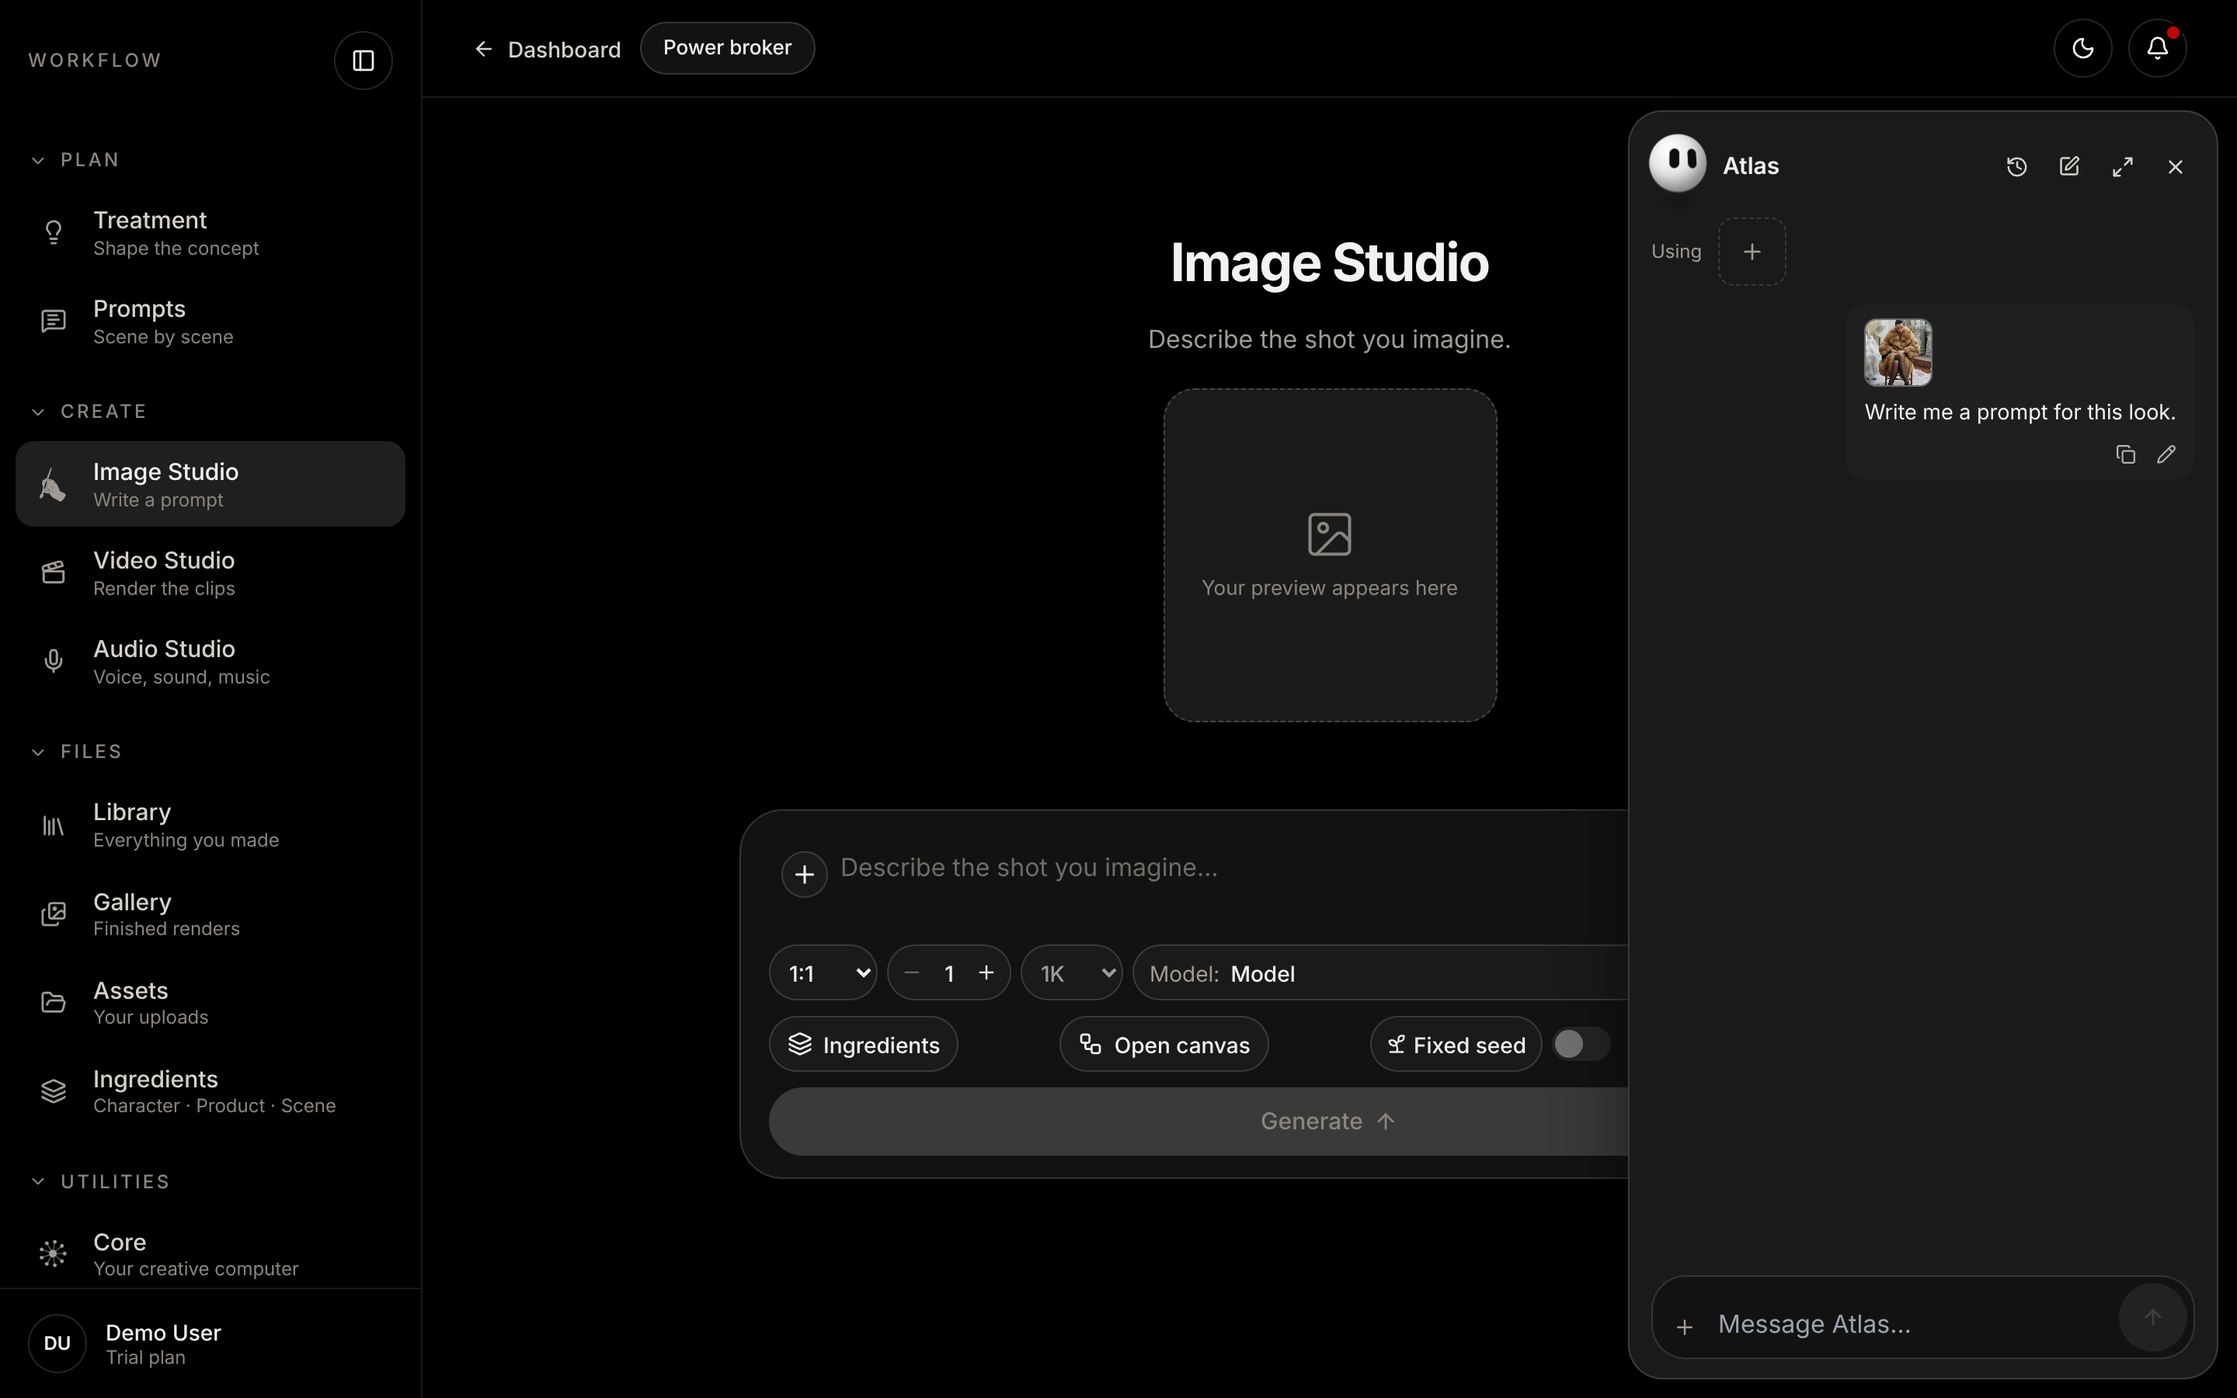
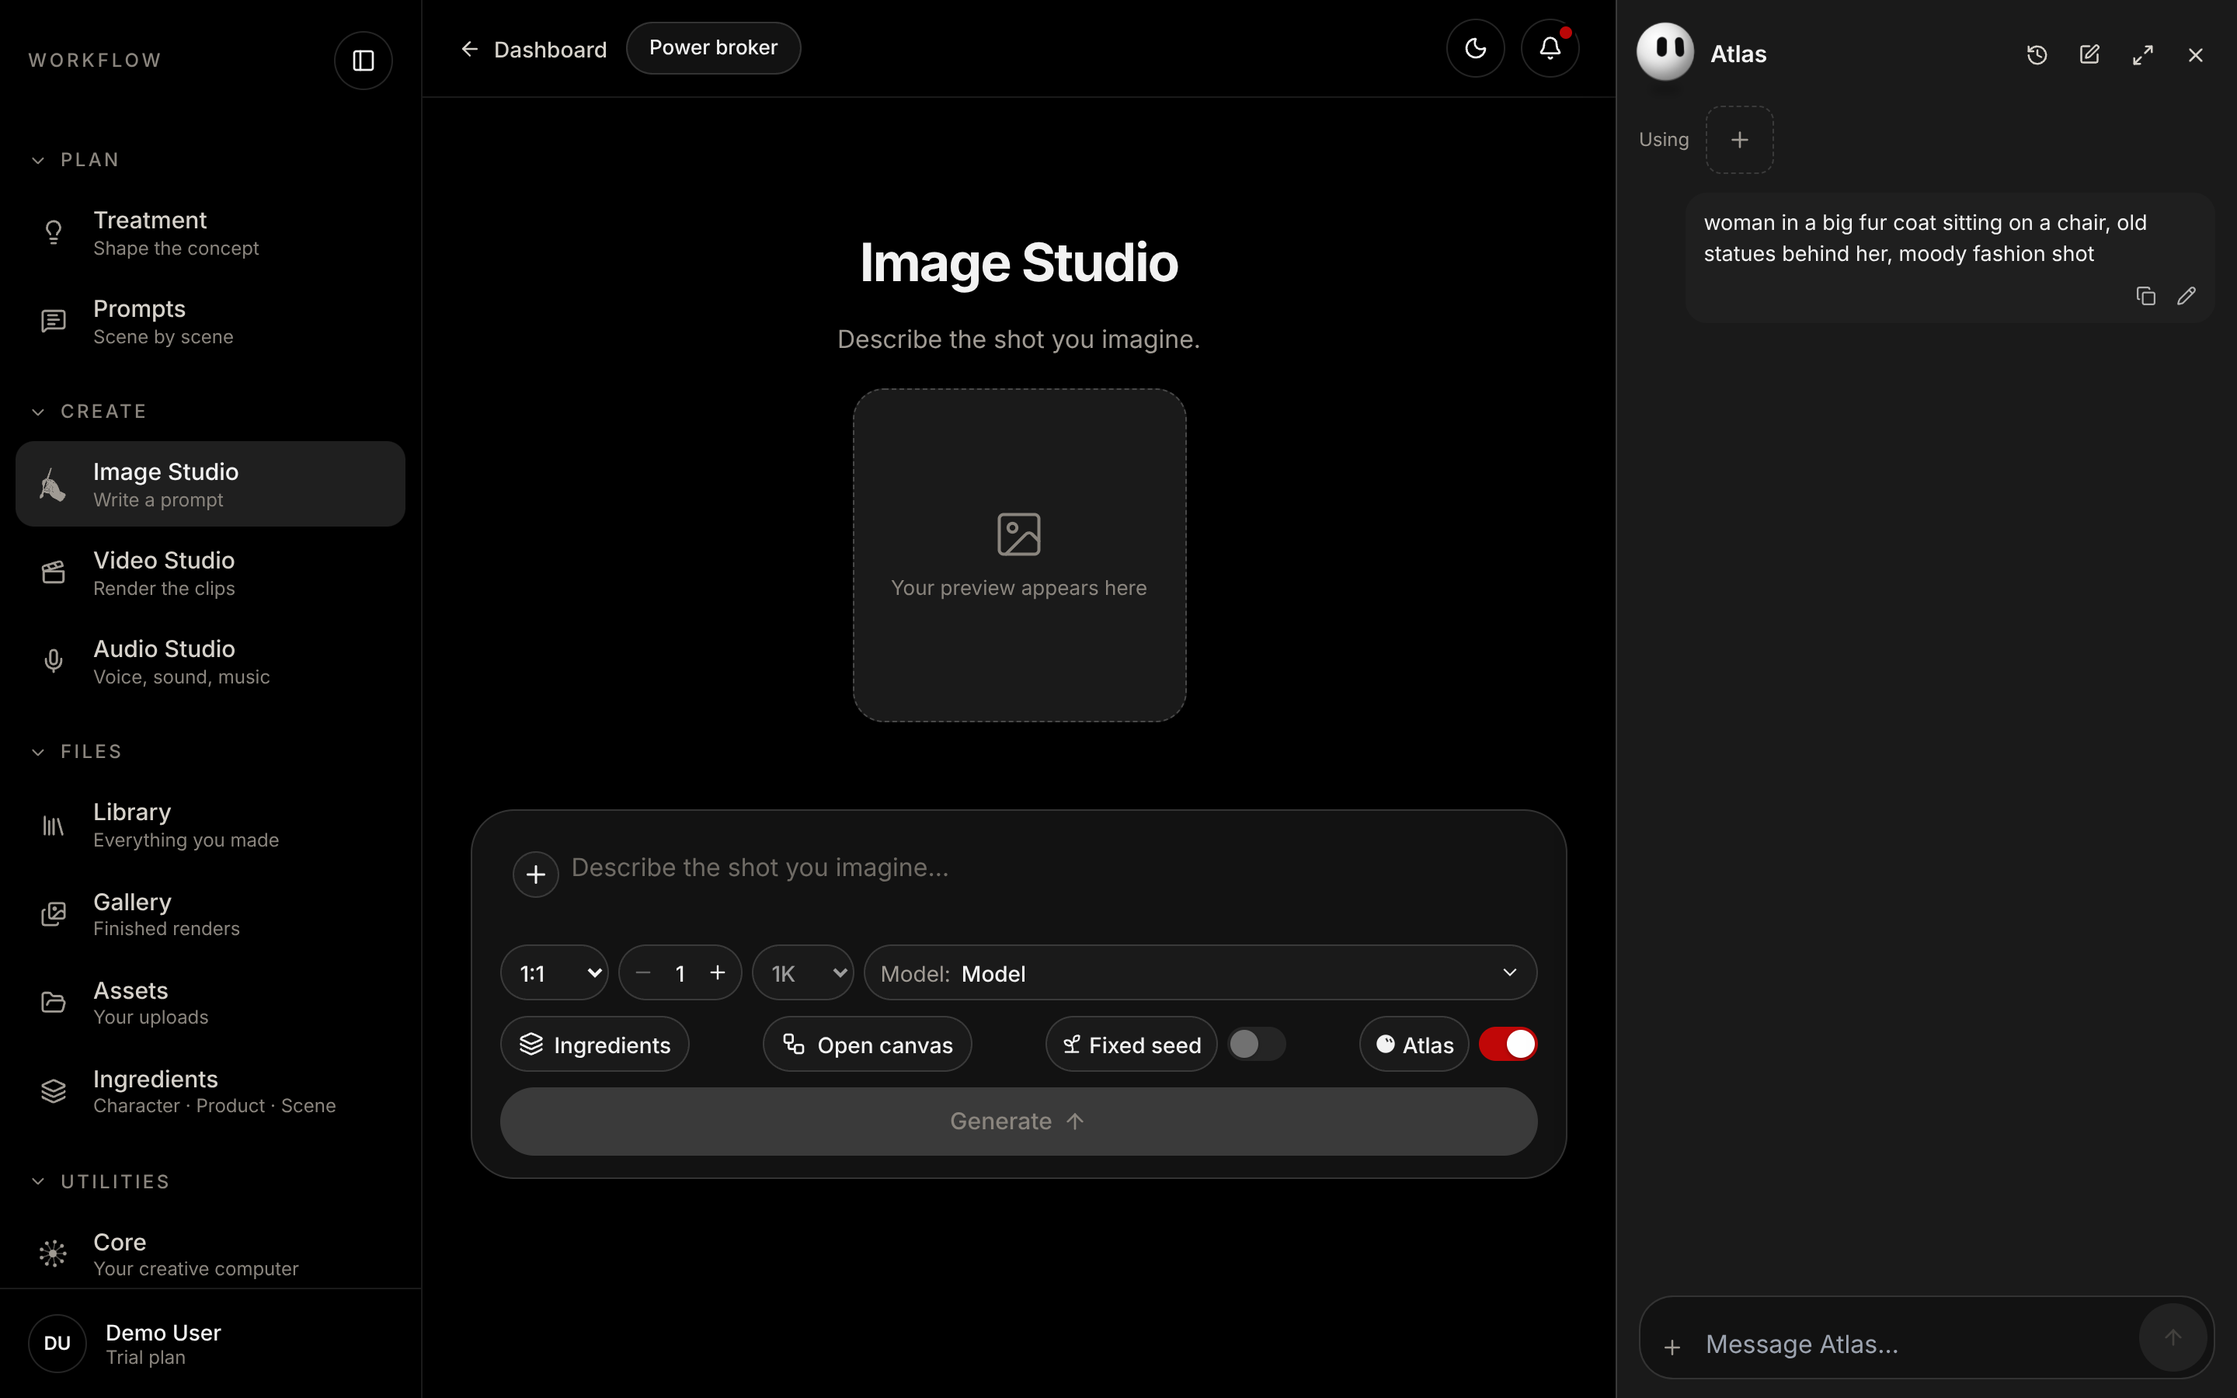
Launch video v2: homepage-style ring carousel for Shots that sell, Atlas docked right with a typed rough idea, three directors and many more
Claude-Session: https://claude.ai/code/session_013DGrz9f3qFoYRsQEBwWjw9

diff --git a/media-archive/launch-video/film.js b/media-archive/launch-video/film.js
@@ -107,15 +107,20 @@ function sHits(f) {
 }
 // the dashboard's product shots and beauty pictures rise as a row of cards
 const SHOP = 5;
+// the homepage carousel: cards on the inside of a ring with the camera at its centre, so middle cards are smallest and the sides grow,
+// each card's outer edge taller than its inner edge (same numbers as CanvasCarousel: camera 0.52 x width, card 0.2 x 0.283, 3 degree gap)
+function ringCard(im, deg, Rr, w, h, cx, cy, a) {
+  const th = deg * Math.PI / 180, N = 28, sw = im.width, sh = im.height, s0 = Math.max(w / sw, h / sh), cw = w / s0, ch = h / s0, ox = (sw - cw) / 2, oy = (sh - ch) * 0.45;
+  const pts = []; for (let i = 0; i <= N; i++) { const u = -w / 2 + (w * i) / N, d = Rr * Math.cos(th) - u * Math.sin(th); pts.push([cx + Rr * (Rr * Math.sin(th) + u * Math.cos(th)) / d, (h / 2) * Rr / d]); }
+  g.save(); g.globalAlpha = a; g.beginPath(); pts.forEach(([x, hh], i) => (i ? g.lineTo(x, cy - hh) : g.moveTo(x, cy - hh))); for (let i = N; i >= 0; i--) g.lineTo(pts[i][0], cy + pts[i][1]); g.closePath(); g.clip();
+  for (let i = 0; i < N; i++) { const [x0, h0] = pts[i], [x1, h1] = pts[i + 1], hh = Math.max(h0, h1); g.drawImage(im, ox + (cw * i) / N, oy, cw / N + 0.5, ch, x0, cy - hh, x1 - x0 + 0.8, hh * 2); }
+  g.restore(); g.globalAlpha = 1;
+}
 function sShop(f) {
-  const s = S.shop, drift = lerp(1, -1, prog(f, s.start, s.end)) * M * 0.05;
-  for (let i = 0; i < SHOP; i++) {
-    const st = s.start + i * 3, t = spring(prog(f, st, st + 18));
-    let x, y, h;
-    if (TALL) { const row = i < 3 ? 0 : 1, col = row ? i - 3 : i, n = row ? 2 : 3; h = M * (row ? 0.6 : 0.5); x = W * ((col + 0.5) / n) + drift * (row ? -1 : 1); y = H * (row ? 0.56 : 0.3); }
-    else { h = M * (i % 2 ? 0.5 : 0.58); x = W * ((i + 0.5) / SHOP) + drift; y = H * (i % 2 ? 0.44 : 0.41); }
-    card(IM[`shop-${i}`], x, y + (1 - t) * H * 0.35, h * 0.78, h, { a: clamp(t * 3), rot: (i % 2 ? 0.035 : -0.035) * t, fy: 0.45 });
-  }
+  const s = S.shop, base = TALL ? W * 1.35 : Math.min(W, 1600), Rr = base * 0.52, w = base * 0.2, h = base * 0.283, step = 2 * Math.atan(w / 2 / Rr) * 180 / Math.PI + 3;
+  const slots = SHOP * 2, pos = lerp(0.2, 2.2, prog(f, s.start, s.end)), inn = eOut(prog(f, s.start, s.start + 14)), cy = H * (TALL ? 0.42 : 0.45);
+  const list = []; for (let j = 0; j < slots; j++) { let k = (j - pos) % slots; if (k >= slots / 2) k -= slots; if (k < -slots / 2) k += slots; const deg = k * step; if (Math.abs(deg) <= 64) list.push([deg, j]); }
+  list.sort((p, q) => Math.abs(q[0]) - Math.abs(p[0])).forEach(([deg, j]) => ringCard(IM[`shop-${j % SHOP}`], deg, Rr, w, h * lerp(0.85, 1, inn), W / 2, cy + (1 - inn) * H * 0.08, inn));
   line("Shots that [sell.]", f, s.start + 16, s.end + 10);
 }
 // who it is for: one audience per beat, a picture or clip on one side, the line on the other
@@ -204,38 +209,46 @@ function sAtlas(f) {
 // a capture drawn full frame with a camera: centre (cx, cy) in capture pixels, zoom 1 = the capture fills the frame
 function camShot(im, cx, cy, z, a = 1) { const sc = Math.max(W / im.width, H / im.height) * z; g.globalAlpha = a; g.drawImage(im, W / 2 - cx * sc, H * 0.46 - cy * sc, im.width * sc, im.height * sc); g.globalAlpha = 1; return (x, y) => [W / 2 + (x - cx) * sc, H * 0.46 + (y - cy) * sc, sc]; }
 // Image Studio with Atlas: show him a look, he writes the prompt, Apply and generate, the picture appears in the preview
-const SK = TALL
-  ? [[0, 1440, 900, 0.75], [8, 2488, 820, 1.2], [46, 2488, 900, 1.2], [62, 2488, 980, 1.35], [92, 1712, 760, 1.5], [128, 1712, 738, 2.4]]
-  : [[0, 1440, 900, 1.0], [8, 2480, 700, 1.75], [46, 2470, 960, 1.75], [62, 2520, 1080, 2.0], [92, 1712, 760, 1.6], [128, 1712, 738, 3.0]];
-const PREV = [1580, 501, 265, 474]; // the 9:16 preview frame in the capture
+// Image Studio with Atlas docked on the right: the person types a rough idea, Atlas answers with the full prompt, Apply and generate, the picture is made.
+// Positions come from captures/studio-rects.json (capture pixels, measured by capture.mjs).
+let SR = null, INPUT_BG = "#1b1b1b";
+const ctr = (r) => [r[0] + r[2] / 2, r[1] + r[3] / 2];
+function studioKeys() {
+  const [ix, iy] = ctr(SR.inputBox), [ux, uy] = ctr(SR.user), [px, py] = ctr(SR.prop), [vx, vy] = ctr(SR.preview), zP = TALL ? 1.2 : 2.3, zV = TALL ? 2.25 : 2.3;
+  return [[0, 1440, 900, TALL ? 0.75 : 1.0], [8, ix, iy - 60, zP], [50, ix, uy + 140, zP], [64, px, py + 110, TALL ? 1.25 : 2.0], [96, vx, vy, zV], [140, vx, vy, zV * 1.25]];
+}
 function sStudio(f) {
-  const s = S.studio, lf = f - s.start; let i = 0; while (i < SK.length - 1 && lf >= SK[i + 1][0]) i++;
+  const s = S.studio, lf = f - s.start, SK = studioKeys(); let i = 0; while (i < SK.length - 1 && lf >= SK[i + 1][0]) i++;
   const a = SK[Math.max(0, i - 1)], b = SK[i], t = i === 0 ? 1 : eIO(clamp((lf - b[0]) / 14));
   const cx = lerp(a[1], b[1], t), cy = lerp(a[2], b[2], t), z = lerp(a[3], b[3], t);
-  const im = lf < 46 ? IM["st-1"] : lf < 90 ? IM["st-2"] : IM["st-3"], X = camShot(im, cx, cy, z);
-  if (lf >= 46 && lf < 52) camShot(IM["st-1"], cx, cy, z, 1 - (lf - 46) / 6); if (lf >= 90 && lf < 96) camShot(IM["st-2"], cx, cy, z, 1 - (lf - 90) / 6);
-  if (lf < 92) { const pt = eIO(prog(lf, 58, 80)), [px, py, sc] = X(lerp(2700, 2565, pt), lerp(1500, 1212, pt)), press = lf >= 82 && lf < 86 ? 0.85 : 1; if (lf > 54) pointer(px, py, press * sc / 1.6);
-    if (lf >= 82) glow(px, py, M * 0.2 * eOut(prog(lf, 82, 92)), "rgba(192,7,7,0.9)", 0.6 * (1 - prog(lf, 82, 92))); }
-  if (lf >= 92) { // the picture being made: a soft scan from top to bottom, sharpening as it lands
-    const [x, y, sc] = X(PREV[0], PREV[1]), w = PREV[2] * sc, h = PREV[3] * sc, r = 22 * sc, tr = eIO(prog(lf, 96, 124)), pic = IM["v2-fur"];
+  const im = lf < 49 ? IM["st-0"] : lf < 62 ? IM["st-1"] : lf < 96 ? IM["st-2"] : IM["st-3"], X = camShot(im, cx, cy, z);
+  if (lf >= 62 && lf < 68) camShot(IM["st-1"], cx, cy, z, 1 - (lf - 62) / 6); if (lf >= 96 && lf < 102) camShot(IM["st-2"], cx, cy, z, 1 - (lf - 96) / 6);
+  if (lf < 49) { // the rough idea, typed into Atlas's message box
+    const [bx, by, bw, bh] = SR.input, [x0, y0, sc] = X(bx, by), n = Math.round(SR.ask.length * prog(Math.floor(lf), 10, 44)), txt = SR.ask.slice(0, n), px = 31 * sc;
+    if (n > 0) { g.save(); g.beginPath(); g.rect(x0, y0, bw * sc, bh * sc); g.clip(); g.fillStyle = INPUT_BG; g.fillRect(x0, y0, bw * sc, bh * sc);
+      g.font = `400 ${px}px Inter`; g.textBaseline = "middle"; const tw = g.measureText(txt).width, sx = Math.min(0, bw * sc - tw - px * 0.4);
+      g.fillStyle = PAPER; g.fillText(txt, x0 + sx, y0 + (bh * sc) / 2); if (Math.floor(lf / 6) % 2 === 0 || n < SR.ask.length) { g.fillStyle = RED; g.fillRect(x0 + sx + tw + px * 0.08, y0 + bh * sc * 0.22, Math.max(2, px * 0.08), bh * sc * 0.56); } g.restore(); } }
+  if (lf >= 70 && lf < 96) { const [gx, gy] = ctr(SR.go), pt = eIO(prog(lf, 70, 88)), [qx, qy, sc] = X(lerp(gx + 150, gx, pt), lerp(gy + 260, gy, pt)), press = lf >= 90 ? 0.85 : 1; pointer(qx, qy, press * sc / 1.6);
+    if (lf >= 90) glow(qx, qy, M * 0.2 * eOut(prog(lf, 90, 96)), "rgba(192,7,7,0.9)", 0.6 * (1 - prog(lf, 90, 96))); }
+  if (lf >= 96) { // the picture being made: a soft scan from top to bottom, sharpening as it lands
+    const [x, y, sc] = X(SR.preview[0], SR.preview[1]), w = SR.preview[2] * sc, h = SR.preview[3] * sc, r = 24 * sc, tr = eIO(prog(lf, 100, 130)), pic = IM["v2-fur"];
     g.save(); rr(x, y, w, h, r); g.clip(); g.fillStyle = "#151515"; g.fillRect(x, y, w, h);
     const ps = Math.max(w / pic.width, h / pic.height), sw = w / ps, sh = h / ps;
-    g.save(); g.beginPath(); g.rect(x, y, w, h * tr); g.clip(); g.filter = `blur(${(1 - tr) * 14 * sc / 2}px)`; g.drawImage(pic, (pic.width - sw) / 2, (pic.height - sh) / 2, sw, sh, x, y, w, h); g.filter = "none"; g.restore();
+    g.save(); g.beginPath(); g.rect(x, y, w, h * tr); g.clip(); g.filter = `blur(${(1 - tr) * 7 * sc}px)`; g.drawImage(pic, (pic.width - sw) / 2, (pic.height - sh) / 2, sw, sh, x, y, w, h); g.filter = "none"; g.restore();
     if (tr < 1) { const ly = y + h * tr, lg = g.createLinearGradient(0, ly - h * 0.08, 0, ly); lg.addColorStop(0, "rgba(255,255,255,0)"); lg.addColorStop(1, "rgba(255,255,255,0.55)"); g.fillStyle = lg; g.fillRect(x, ly - h * 0.08, w, h * 0.08); }
     g.restore();
   }
   const gr = g.createLinearGradient(0, H * 0.7, 0, H); gr.addColorStop(0, "rgba(0,0,0,0)"); gr.addColorStop(0.7, "rgba(0,0,0,0.85)"); gr.addColorStop(1, "rgba(0,0,0,0.92)"); g.fillStyle = gr; g.fillRect(0, H * 0.7, W, H * 0.3);
-  if (lf < 46) line("Show Atlas [a look.]", f, s.start + 12, s.start + 46); else if (lf < 92) line("He writes [the prompt.]", f, s.start + 50, s.start + 92); else line("Image Studio [makes it.]", f, s.start + 98, s.end + 4);
+  if (lf < 56) line("Describe it [roughly.]", f, s.start + 8, s.start + 56); else if (lf < 98) line("Atlas writes [the full prompt.]", f, s.start + 64, s.start + 98); else line("Image Studio [makes it.]", f, s.start + 102, s.end + 4);
 }
 // director styles: the names arrive one after another, kinetic, then the line
-const DIRS = ["Kubrick", "Wong Kar-wai", "Villeneuve", "Hitchcock", "Fincher", "Kurosawa", "Nolan", "Park Chan-wook"];
+const DIRS = ["Spielberg.", "Kubrick.", "Nolan."];
 function sDirectors(f) {
-  const s = S.directors, lf = f - s.start, step = 5, k = Math.min(DIRS.length - 1, Math.floor(lf / step)), lt = (lf - k * step) / step;
-  text("Direct it like", W / 2, H * 0.34, M * 0.04, MUTE, { w: 500, a: eOut(prog(lf, 0, 8)) * (1 - prog(lf, DIRS.length * 5, DIRS.length * 5 + 6)) });
-  const settle = lf >= DIRS.length * step, name = DIRS[k], px = M * (TALL ? 0.11 : 0.13);
-  if (!settle) { const t = eExpo(lt); text(name, W / 2, H * 0.47 + (1 - t) * px * 0.5, px, PAPER, { w: 700, a: clamp(t * 2) }); }
-  else text(DIRS[DIRS.length - 1], W / 2, H * 0.47, px, PAPER, { w: 700, a: 1 - eIn(prog(lf, DIRS.length * step, DIRS.length * step + 6)) });
-  if (settle) { if (TALL) { line("Twenty director lenses.", f, s.start + DIRS.length * step + 4, s.end + 4, { y: H * 0.47 }); line("[Built into Atlas.]", f, s.start + DIRS.length * step + 10, s.end + 4, { y: H * 0.53 }); } else line("Twenty director lenses. [Built into Atlas.]", f, s.start + DIRS.length * step + 4, s.end + 4, { y: H * 0.5 }); }
+  const s = S.directors, lf = f - s.start, px = M * (TALL ? 0.1 : 0.115), gap = px * 1.08, y0 = H * (TALL ? 0.4 : 0.36), out = 1 - eIn(prog(lf, 58, 66));
+  text("Direct it like", W / 2, y0 - gap * 1.05, M * 0.04, MUTE, { w: 500, a: eOut(prog(lf, 0, 8)) * out });
+  DIRS.forEach((n, i) => { const t = eExpo(prog(lf, 6 + i * 9, 18 + i * 9)); text(n, W / 2, y0 + i * gap + (1 - t) * px * 0.6, px, PAPER, { w: 700, a: clamp(t * 2) * out }); });
+  const m = eExpo(prog(lf, 36, 48)); text("and many more.", W / 2, y0 + 3 * gap + (1 - m) * px * 0.4, px * 0.55, MUTE, { w: 600, a: clamp(m * 2) * out });
+  line("Director lenses, [built into Atlas.]", f, s.start + 44, s.end + 4);
 }
 // Relight: the same shot, lit again; a sweep of light carries the new lighting across the picture
 function sRelight(f) {
@@ -300,11 +313,13 @@ window.renderFrame = (n, fast) => {
   return cv.toDataURL("image/jpeg", 0.95).slice(23);
 };
 window.ready = (async () => {
+  SR = await (await fetch("captures/studio-rects.json")).json();
   const ff = await new FontFace("Inter", "url(fonts/Inter-latin.woff2)", { weight: "100 900" }).load(); document.fonts.add(ff);
-  const list = [["logo", "work/logo.png"], ["cap-memory", "work/cap-memory.png"], ["cap-atlas-3-answer", "work/cap-atlas-3-answer.png"], ["cap-shotmap-stage", "work/cap-shotmap-stage.png"], ["cap-canvas", "work/cap-canvas-1-flow.png"], ["st-1", "work/cap-studio-1-request.png"], ["st-2", "work/cap-studio-2-answer.png"], ["st-3", "work/cap-studio-3-done.png"], ...["fur", "marcus-floor", "relight-before", "relight-after", "perfume"].map((n) => [`v2-${n}`, `work/v2-${n}.jpg`]), ...HITS.map((n) => [`hit-${n}`, `work/hit-${n}.jpg`]), ...Array.from({ length: SHOP }, (_, i) => [`shop-${i}`, `work/shop-${i}.jpg`]),
+  const list = [["logo", "work/logo.png"], ["cap-memory", "work/cap-memory.png"], ["cap-atlas-3-answer", "work/cap-atlas-3-answer.png"], ["cap-shotmap-stage", "work/cap-shotmap-stage.png"], ["cap-canvas", "work/cap-canvas-1-flow.png"], ["st-0", "work/cap-studio-0-empty.png"], ["st-1", "work/cap-studio-1-request.png"], ["st-2", "work/cap-studio-2-answer.png"], ["st-3", "work/cap-studio-3-done.png"], ...["fur", "marcus-floor", "relight-before", "relight-after", "perfume"].map((n) => [`v2-${n}`, `work/v2-${n}.jpg`]), ...HITS.map((n) => [`hit-${n}`, `work/hit-${n}.jpg`]), ...Array.from({ length: SHOP }, (_, i) => [`shop-${i}`, `work/shop-${i}.jpg`]),
     ...["character", "product-1", "product-2", "product-3", "product-4"].map((n) => [`cv-${n}`, `work/cv-${n}.jpg`]),
     ...Array.from({ length: CARDS }, (_, i) => [`card-${i}`, `work/card-${i}.jpg`]),
     ...Object.entries({ ...SEQ, ...SEQ2 }).flatMap(([k, n]) => Array.from({ length: n }, (_, i) => { const id = `${k}-${String(i + 1).padStart(3, "0")}`; return [id, `work/seq/${id}.jpg`]; }))];
   await Promise.all(list.map(([n, src]) => new Promise((ok, no) => { const i = new Image(); i.onload = () => { IM[n] = i; ok(); }; i.onerror = () => no(new Error("missing " + src)); i.src = src; })));
+  { const c = document.createElement("canvas"); c.width = c.height = 4; const x = c.getContext("2d"); x.drawImage(IM["st-0"], SR.input[0] + 4, SR.input[1] + 4, 4, 4, 0, 0, 4, 4); const d = x.getImageData(1, 1, 1, 1).data; INPUT_BG = `rgb(${d[0]},${d[1]},${d[2]})`; }
   return true;
 })();

diff --git a/media-archive/launch-video/score.py b/media-archive/launch-video/score.py
@@ -138,7 +138,11 @@ for j in range(len(P)):
     if P[j] == " ": continue
     put(keytap(), sec(a0 + (a1 - a0) * (j + 1) / len(P)) + rng.normal(0, 0.006), 0.42, pan=rng.uniform(-0.15, 0.15))
 put(click(), sec(TL["click"]), 0.9); put(pop(520), sec(TL["click"]) + 0.02, 0.35)
-put(click(), sec(S["studio"]["start"] + 82), 0.9); put(pop(520), sec(S["studio"]["start"] + 82) + 0.02, 0.35)
+ASK = json.load(open(os.path.join(HERE, "captures", "studio-rects.json")))["ask"]; b0 = S["studio"]["start"]
+for j in range(len(ASK)):
+    if ASK[j] != " ": put(keytap(), sec(b0 + 10 + 34 * (j + 1) / len(ASK)) + rng.normal(0, 0.006), 0.38, pan=0.3)
+put(click(), sec(b0 + 48), 0.7); put(swoosh(0.3, False), sec(b0 + 49), 0.2)
+put(click(), sec(b0 + 90), 0.9); put(pop(520), sec(b0 + 90) + 0.02, 0.35)
 # a swoosh on every cut (the zoom-through), not into the scenes that continue the one before
 JOIN = {"images", "end"}
 for s in TL["scenes"][1:]:
@@ -147,13 +151,13 @@ for s in TL["scenes"][1:]:
 # cards landing
 im = S["images"]["start"]
 for f in (im + 8, im + 29, im + 38): put(pop(760), sec(f + 4), 0.3)
-for i in range(5): put(pop(700 + 70 * i), sec(S["shop"]["start"] + i * 3 + 4), 0.25, pan=-0.4 + 0.2 * i)
+put(swoosh(1.6), sec(S["shop"]["start"]), 0.22)
 for f in range(S["hits"]["start"], S["hits"]["end"], 12): put(thump(), sec(f), 0.55)
 for f in (30, 62, 92, 122): put(pop(640), sec(S["canvas"]["start"] + f + 6), 0.25)
 for k in range(5): put(pop(600 + 60 * k), sec(S[f"for{k}"]["start"] + 5), 0.3); put(click(), sec(S[f"for{k}"]["start"] + 3), 0.3)
 put(pop(380), sec(S["atlas"]["start"] + 10), 0.5)  # Atlas drops in
-for i in range(8): put(click(1.2), sec(S["directors"]["start"] + i * 5), 0.35, pan=rng.uniform(-0.3, 0.3))
-put(shimmer(1.1), sec(S["studio"]["start"] + 94), 0.6)  # the picture being made
+for i in (6, 15, 24, 36): put(thump(), sec(S["directors"]["start"] + i), 0.4)
+put(shimmer(1.2), sec(S["studio"]["start"] + 98), 0.6)  # the picture being made
 put(shimmer(0.9), sec(S["relight"]["start"] + 17), 0.5)  # the light sweep
 put(riser(1.6), sec(S["prompt"]["end"]) - 1.6, 0.25)  # into the drop
 put(riser(1.2), sec(S["canvas"]["start"]) - 1.2, 0.2)
